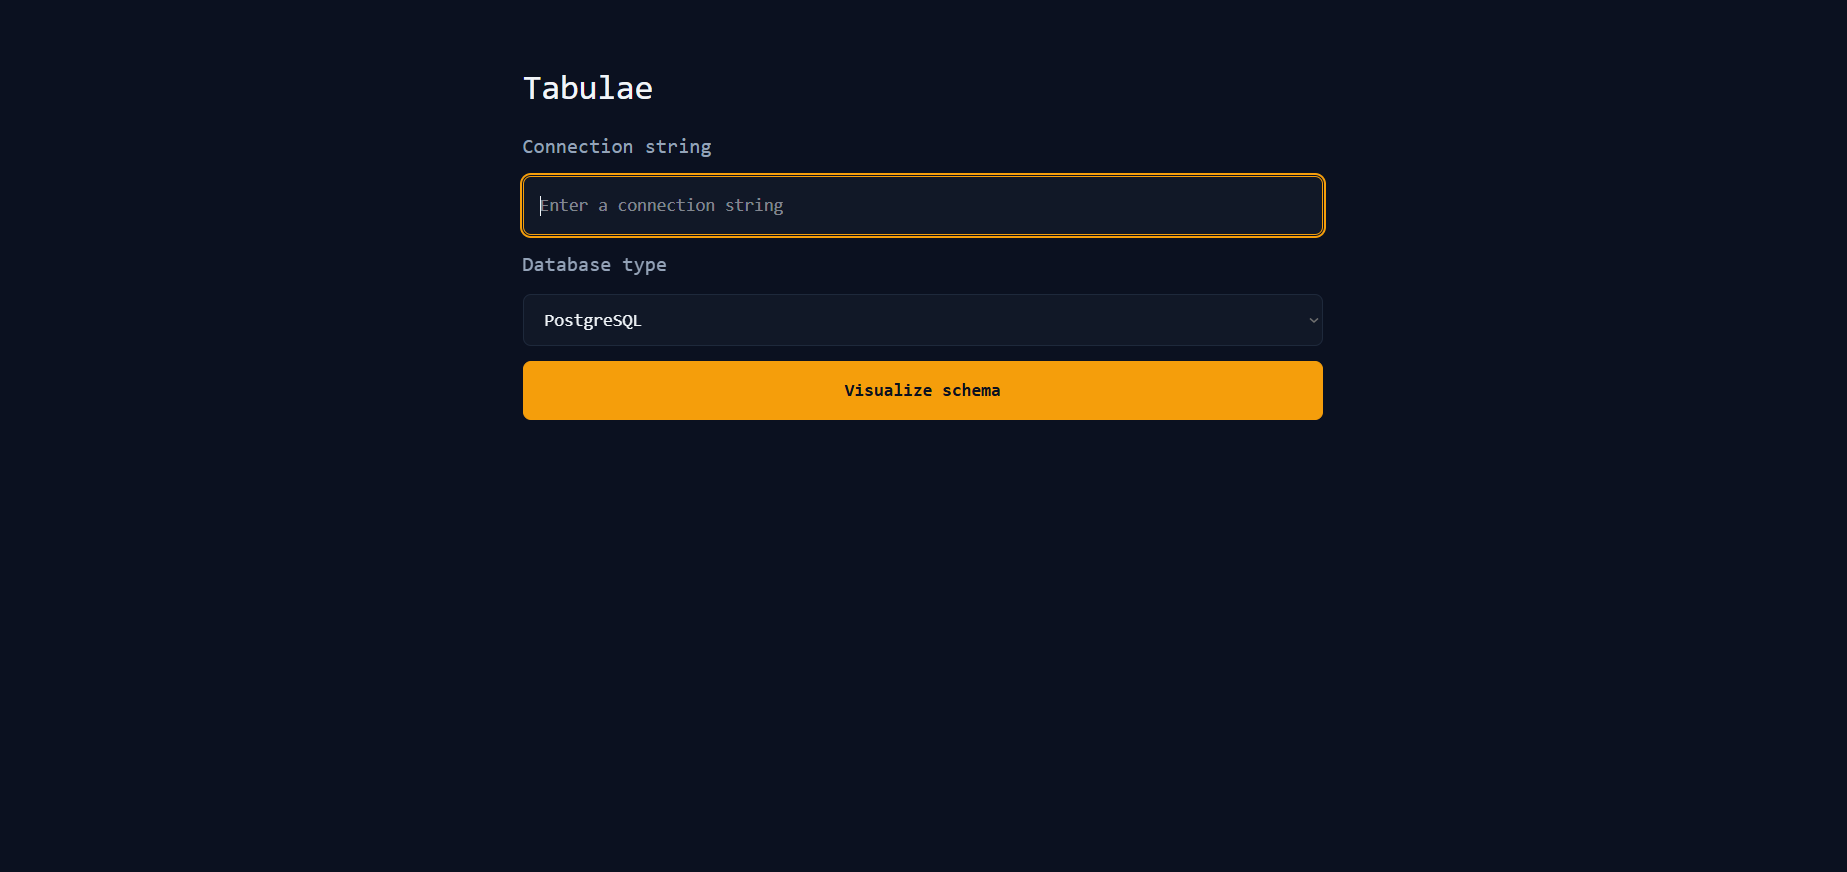
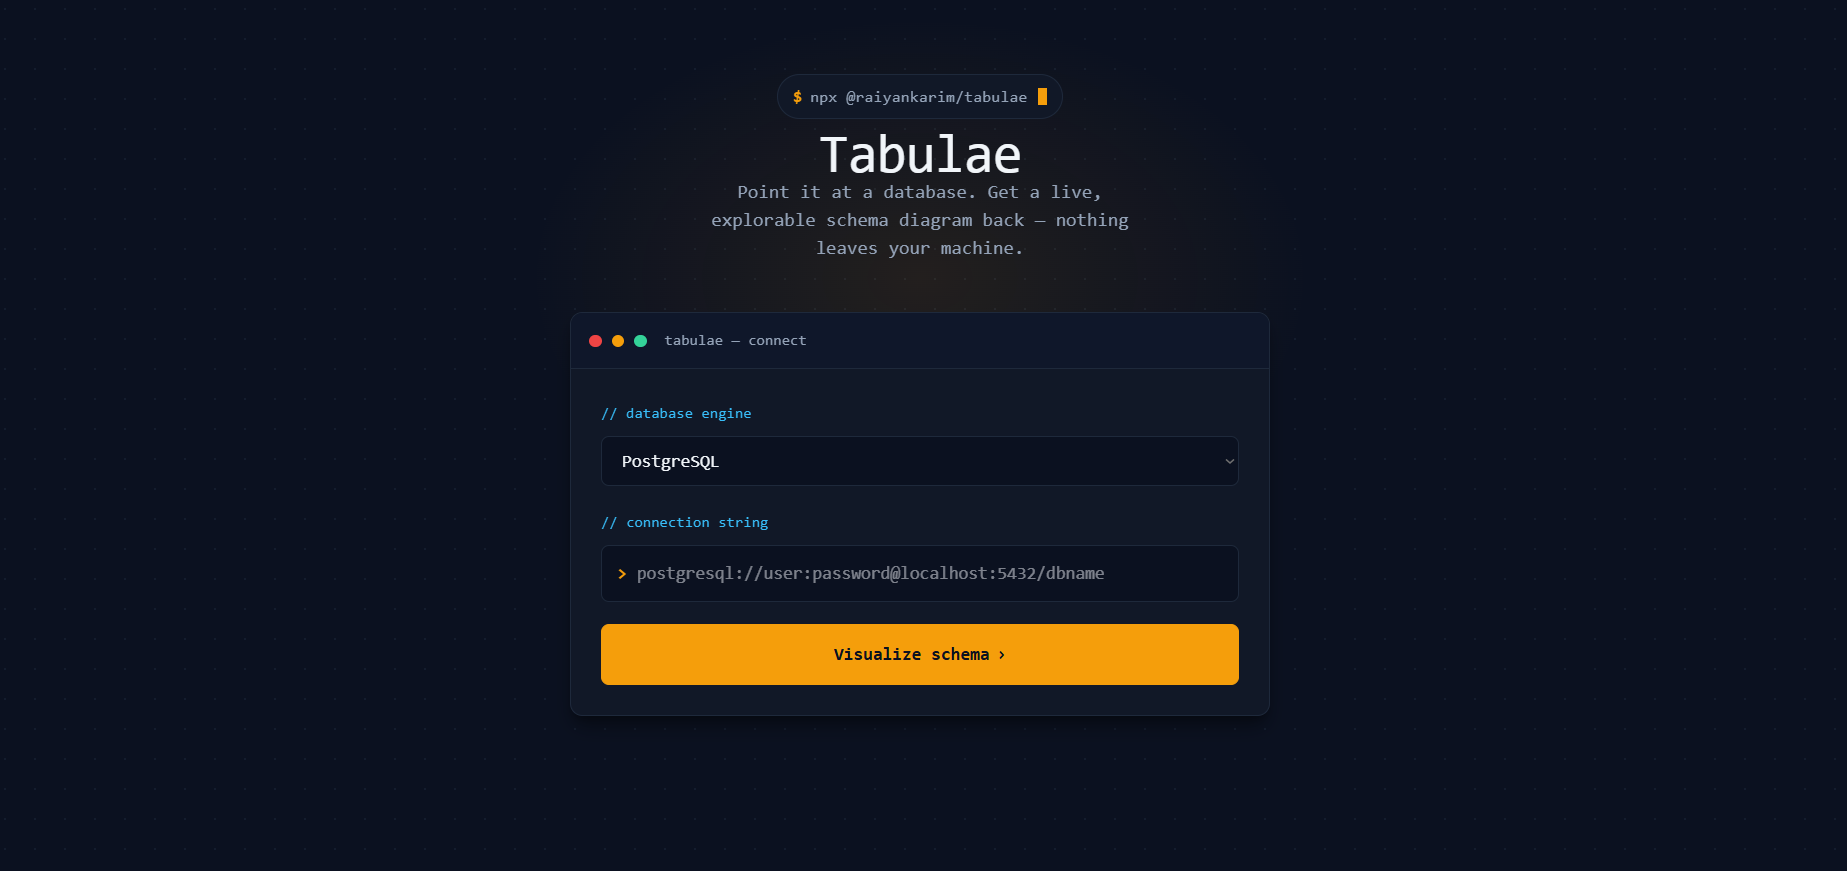
README.md update

diff --git a/server/public/index.html b/server/public/index.html
@@ -5,7 +5,7 @@
     <link rel="icon" type="image/svg+xml" href="/favicon.svg" />
     <meta name="viewport" content="width=device-width, initial-scale=1.0" />
     <title>client</title>
-    <script type="module" crossorigin src="/assets/index-BSe2ynsx.js"></script>
+    <script type="module" crossorigin src="/assets/index-Km676gG9.js"></script>
     <link rel="stylesheet" crossorigin href="/assets/index-Dg6K7DnS.css">
   </head>
   <body>

diff --git a/README.md b/README.md
@@ -4,13 +4,12 @@ Tabulae is a database schema visualization tool. Connect it to a PostgreSQL, MyS
 
 The application includes:
 
-- An interactive React and React Flow schema canvas
+- An interactive React Flow schema canvas
 - PostgreSQL, MySQL, and SQL Server schema introspection
 - SQLite database-file introspection
 - Automatic table layout with relationship edges
 - Table search and relationship-neighborhood focus
 - Expandable table nodes
-- Fullscreen canvas mode
 - PNG, SVG, and Mermaid export
 - A local Express API and a packaged command-line application
 
